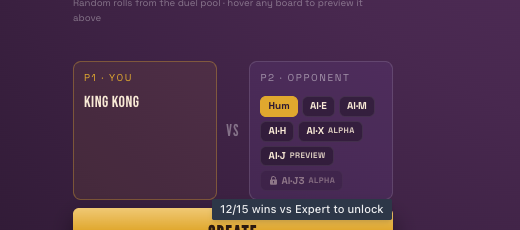
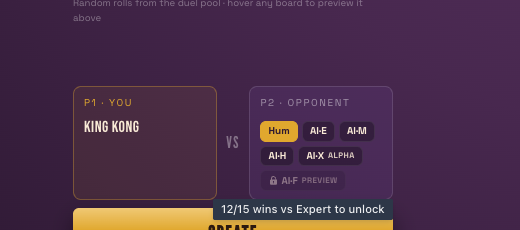
unbrewed-p2p-933: hide the jev tier; jevx3 shows as "Familiar 3" (AI·F, preview)
jev is dropped from TIER_ORDER/TIER_META (ClientBotTier excludes it), so it
never renders even when a server lists it. It stays in BotDifficulty because
protocol.ts mirrors the engine. jevx3's player-facing name, chip and badge sit
on one line in TIER_META. The account stats and match history labels now go
through TIER_META instead of printing the raw wire id. Screenshots retaken.

Claude-Session: https://claude.ai/code/session_01Tj4Pn3XJPmii7XUAJVDP5Z

diff --git a/lib/pro/botTiers.ts b/lib/pro/botTiers.ts
@@ -28,11 +28,18 @@
  */
 import type { BotDifficulty, HeroListing } from "./protocol";
 
+/**
+ * The tiers THIS CLIENT will ever render. `BotDifficulty` mirrors the engine and
+ * so also names `jev`, but the client deliberately does not show it (#933): a
+ * tier missing here is dropped even when a server lists it.
+ */
+export type ClientBotTier = Exclude<BotDifficulty, "jev">;
+
 /** The v22 tier set — what a server that doesn't advertise `botTiers` serves. */
-export const FALLBACK_BOT_TIERS: readonly BotDifficulty[] = ["easy", "medium", "hard"];
+export const FALLBACK_BOT_TIERS: readonly ClientBotTier[] = ["easy", "medium", "hard"];
 
 /** Weakest → strongest. Drives render order regardless of the server's ordering. */
-const TIER_ORDER: readonly BotDifficulty[] = ["easy", "medium", "hard", "expert", "jev", "jevx3"];
+const TIER_ORDER: readonly ClientBotTier[] = ["easy", "medium", "hard", "expert", "jevx3"];
 
 export interface BotTierChoice {
   id: BotDifficulty;
@@ -51,7 +58,13 @@ export interface BotTierChoice {
   lockHint?: string;
 }
 
-const TIER_META: Record<BotDifficulty, BotTierChoice> = {
+/**
+ * Everything a player can read about a tier. Player-facing text must never reveal
+ * the tech behind a tier (no internal ids, model or API names) — the wire id
+ * `jevx3` stays internal. Its name is still being chosen: rename it by editing
+ * the `jevx3` entry's label/chip/badge line below, nothing else.
+ */
+const TIER_META: Record<ClientBotTier, BotTierChoice> = {
   easy: { id: "easy", label: "Easy bot", chip: "AI·E" },
   medium: { id: "medium", label: "Medium bot", chip: "AI·M" },
   hard: { id: "hard", label: "Hard bot", chip: "AI·H" },
@@ -62,23 +75,18 @@ const TIER_META: Record<BotDifficulty, BotTierChoice> = {
     badge: "alpha",
     tooltip: "experimental - beware",
   },
-  jev: {
-    id: "jev",
-    label: "JEV bot",
-    chip: "AI·J",
-    badge: "preview",
-    tooltip: "AI-driven experimental bot — may be slow or unavailable",
-  },
   jevx3: {
     id: "jevx3",
-    label: "JEV x3 bot",
-    chip: "AI·J3",
-    badge: "alpha",
+    ...{ label: "Familiar 3", chip: "AI·F", badge: "preview" }, // ← the one-line rename
     tooltip: "experimental - the strongest bot yet",
   },
 };
 
-export const botTierMeta = (tier: BotDifficulty): BotTierChoice => TIER_META[tier];
+export const botTierMeta = (tier: ClientBotTier): BotTierChoice => TIER_META[tier];
+
+/** Player-facing meta for any difficulty string, or null for one this client never shows. */
+export const knownBotTierMeta = (tier: string): BotTierChoice | null =>
+  Object.prototype.hasOwnProperty.call(TIER_META, tier) ? TIER_META[tier as ClientBotTier] : null;
 
 /**
  * The tiers this server will accept for a room involving `heroIds`.
@@ -91,7 +99,7 @@ export const botTierMeta = (tier: BotDifficulty): BotTierChoice => TIER_META[tie
 export function availableBotTiers(
   heroes: HeroListing[] | null | undefined,
   heroIds: ReadonlyArray<string | null | undefined>,
-): BotDifficulty[] {
+): ClientBotTier[] {
   const fallback = [...FALLBACK_BOT_TIERS];
   const named = [...new Set(heroIds.filter((id): id is string => typeof id === "string" && id.length > 0))];
   // No roster yet, or nothing picked yet: the v22 set is always safe to offer.

diff --git a/lib/pro/botTiers.test.ts b/lib/pro/botTiers.test.ts
@@ -7,7 +7,7 @@
  * new tier still switched off) must land on exactly today's easy/medium/hard,
  * and a server that does advertise is taken at its word, per hero.
  */
-import { availableBotTiers, botTierChoices, botTierMeta, coerceBotTier } from "./botTiers";
+import { availableBotTiers, botTierChoices, botTierMeta, ClientBotTier, coerceBotTier } from "./botTiers";
 import type { BotDifficulty, HeroListing } from "./protocol";
 
 const listing = (heroId: string, botTiers?: BotDifficulty[]): HeroListing => ({
@@ -22,7 +22,7 @@ const listing = (heroId: string, botTiers?: BotDifficulty[]): HeroListing => ({
 });
 
 const EXPERT: BotDifficulty[] = ["easy", "medium", "hard", "expert"];
-const PLAIN: BotDifficulty[] = ["easy", "medium", "hard"];
+const PLAIN: ClientBotTier[] = ["easy", "medium", "hard"];
 
 describe("availableBotTiers — no advertisement (old server / tier dormant)", () => {
   it("falls back to easy|medium|hard when the listing omits botTiers", () => {
@@ -94,5 +94,26 @@ describe("coerceBotTier — an armed tier that stops being offered", () => {
   it("drops to the strongest tier that remains", () => {
     expect(coerceBotTier("expert", PLAIN)).toBe("hard");
     expect(coerceBotTier("hard", ["easy", "medium"])).toBe("medium");
+  });
+});
+
+describe("jev / jevx3 (#933)", () => {
+  const ALL: BotDifficulty[] = ["easy", "medium", "hard", "expert", "jev", "jevx3"];
+
+  it("a listing advertising jev never yields a jev choice — only jevx3 is new", () => {
+    const ids = botTierChoices([listing("king-kong", ALL)], ["king-kong"]).map((c) => c.id);
+    expect(ids).toEqual(["easy", "medium", "hard", "expert", "jevx3"]);
+    expect(ids).not.toContain("jev");
+  });
+
+  it("jevx3 renders under its display name, chip and badge", () => {
+    expect(botTierMeta("jevx3")).toMatchObject({ id: "jevx3", label: "Familiar 3", chip: "AI·F", badge: "preview" });
+  });
+
+  it("no player-facing text reveals the tech behind a tier", () => {
+    const FORBIDDEN = /jev|llm|api|ismcts/i;
+    for (const c of botTierChoices([listing("king-kong", ALL)], ["king-kong"])) {
+      for (const text of [c.label, c.chip, c.badge, c.tooltip]) expect(text ?? "").not.toMatch(FORBIDDEN);
+    }
   });
 });

diff --git a/lib/account/stats.ts b/lib/account/stats.ts
@@ -15,6 +15,8 @@
  * as an empty default — precisely so the UI can tell "the server didn't send
  * this section" (hide it) apart from "you have none of these yet" (a zero row).
  */
+import { knownBotTierMeta } from "../pro/botTiers";
+
 import { API_URL } from "./apiUrl";
 
 /** Games below which a win rate is noise rather than a statistic. */
@@ -351,14 +353,17 @@ export const monthLabel = (iso: string | null): string | null => {
 export const statHeroLabel = (row: HeroStat): string =>
   row.heroName ?? row.heroId ?? "Unknown hero";
 
-const capitalize = (word: string): string =>
-  `${word.charAt(0).toUpperCase()}${word.slice(1)}`;
-
-/** "Hard bots" — the lobby's tier wording, pluralised for a split label. */
-export const botTierLabel = (bot: BotStat): string =>
-  bot.difficulty === "unknown"
-    ? "Bots"
-    : `${capitalize(bot.difficulty)} bots`;
+/**
+ * "Hard bots" — the lobby's tier wording, pluralised for a split label. Named
+ * through the tier's player-facing meta, never the raw wire id (#933): a tier
+ * the client doesn't show reads as a generic "Other bots".
+ */
+export const botTierLabel = (bot: BotStat): string => {
+  if (bot.difficulty === "unknown") return "Bots";
+  const meta = knownBotTierMeta(bot.difficulty);
+  if (!meta) return "Other bots";
+  return meta.label.endsWith(" bot") ? `${meta.label}s` : `${meta.label} bots`;
+};
 
 // --- opposition tiers (issue #592) -------------------------------------------
 

diff --git a/lib/account/gameHistory.ts b/lib/account/gameHistory.ts
@@ -16,6 +16,7 @@
  */
 import { API_URL } from "./apiUrl";
 import { catalogEntry } from "@/lib/pro/mapCatalog";
+import { knownBotTierMeta } from "@/lib/pro/botTiers";
 
 /** Page size we ask for. The API caps at 50 and defaults to 20 itself. */
 export const GAMES_PAGE_SIZE = 20;
@@ -189,9 +190,6 @@ export const heroLabel = (
 
 const TIERS = new Set(["easy", "medium", "hard", "expert"]);
 
-const capitalize = (word: string): string =>
-  `${word.charAt(0).toUpperCase()}${word.slice(1)}`;
-
 /**
  * The parenthetical after an opponent's hero: which kind of pilot it was.
  * Humans get nothing — "vs Thrall" already reads as a person.
@@ -209,9 +207,10 @@ export const pilotLabel = (opponent: AccountGameOpponent): string | null => {
     : "";
   if (pilot.startsWith("llm")) return suffix ? `LLM · ${suffix}` : "LLM";
   if (pilot !== "bot" && !pilot.startsWith("bot:")) return null;
-  // Matches the lobby's tier wording (lib/pro/botTiers.ts): "Hard bot".
+  // The lobby's own tier wording (lib/pro/botTiers.ts): "Hard bot". Never the
+  // raw wire id (#933) — a tier the client doesn't show is just "Bot".
   const tier = opponent.botDifficulty ?? (TIERS.has(suffix) ? suffix : null);
-  return tier ? `${capitalize(tier)} bot` : "Bot";
+  return (tier && knownBotTierMeta(tier)?.label) || "Bot";
 };
 
 /** "Thrall (Hard bot)" — the full opponent phrase for one seat. */

diff --git a/test/pro/jevx3UnlockGate.test.tsx b/test/pro/jevx3UnlockGate.test.tsx
@@ -22,7 +22,7 @@ import { PROTOCOL_VERSION } from "@/lib/pro/protocol";
 import type { ClientMsg } from "@/lib/pro/protocol";
 import { FakeWebSocket, installFakeWebSocket, installPolyfills } from "@/scripts/renderFuzz/domEnv";
 
-const TIERS = ["easy", "medium", "hard", "expert", "jevx3"];
+const TIERS = ["easy", "medium", "hard", "expert", "jev", "jevx3"];
 const HEROES = [
   { heroId: "hero-a", name: "Ellen Ripley", hp: 12, move: 3, reach: "MELEE", botTiers: TIERS },
   { heroId: "hero-b", name: "King Kong", hp: 18, move: 2, reach: "MELEE", botTiers: TIERS },
@@ -146,9 +146,15 @@ describe("jevx3 unlock gate (#933)", () => {
     await setApi({ me: "guest" });
     await mountPicker();
 
+    // The server lists `jev` too, but the client never renders it (#933).
+    expect(screen.queryAllByTestId("seat-chip-jev")).toHaveLength(0);
+
     const locked = chip("jevx3");
     expect(locked).toHaveAttribute("aria-disabled", "true");
     expect(locked).not.toBeDisabled(); // still focusable so the tooltip can open
+    expect(locked).toHaveTextContent("AI·F");
+    // Nothing a player can read names the tech behind the tier.
+    expect(`${locked.textContent} ${locked.getAttribute("aria-label")}`).not.toMatch(/jev|llm|api|ismcts/i);
     expect(locked).toHaveAccessibleName(/Sign in and win 15 vs Expert to unlock/);
 
     await click(locked);

diff --git a/lib/account/stats.test.ts b/lib/account/stats.test.ts
@@ -6,6 +6,7 @@
  * that a newer client renders from a field its API never sent.
  */
 import {
+  botTierLabel,
   casualGamesNote,
   countedRecord,
   fetchAccountStats,
@@ -522,5 +523,21 @@ describe("opposition ordering", () => {
     expect(bots.filter(isCasualBot).map((bot) => bot.difficulty)).toEqual([
       "easy",
     ]);
+  });
+});
+
+describe("botTierLabel — never shows a raw wire id (#933)", () => {
+  const row = (difficulty: string) => ({ difficulty, games: 1, wins: 0 });
+
+  it("keeps the established tier wording", () => {
+    expect(botTierLabel(row("hard"))).toBe("Hard bots");
+    expect(botTierLabel(row("expert"))).toBe("Expert bots");
+    expect(botTierLabel(row("unknown"))).toBe("Bots");
+  });
+
+  it("names jevx3 by its display name and hides tiers the client doesn't show", () => {
+    expect(botTierLabel(row("jevx3"))).toBe("Familiar 3 bots");
+    expect(botTierLabel(row("jev"))).toBe("Other bots");
+    expect(botTierLabel(row("jevx3"))).not.toMatch(/jev/i);
   });
 });

diff --git a/lib/account/gameHistory.test.ts b/lib/account/gameHistory.test.ts
@@ -201,6 +201,15 @@ describe("row labels", () => {
     expect(opponentLabel(game.opponents[0])).toBe("King Kong (Hard bot)");
   });
 
+  it("names jevx3 by its display name and never prints a hidden tier's id (#933)", () => {
+    expect(
+      pilotLabel({ ...game.opponents[0], pilot: "bot:jevx3", botDifficulty: "jevx3" }),
+    ).toBe("Familiar 3");
+    expect(
+      pilotLabel({ ...game.opponents[0], pilot: "bot:jev", botDifficulty: "jev" }),
+    ).toBe("Bot");
+  });
+
   it("falls back through heroName → heroId → a neutral word", () => {
     expect(heroLabel({ heroId: "thrall", heroName: "Thrall" })).toBe("Thrall");
     expect(heroLabel({ heroId: "thrall", heroName: null })).toBe("thrall");
